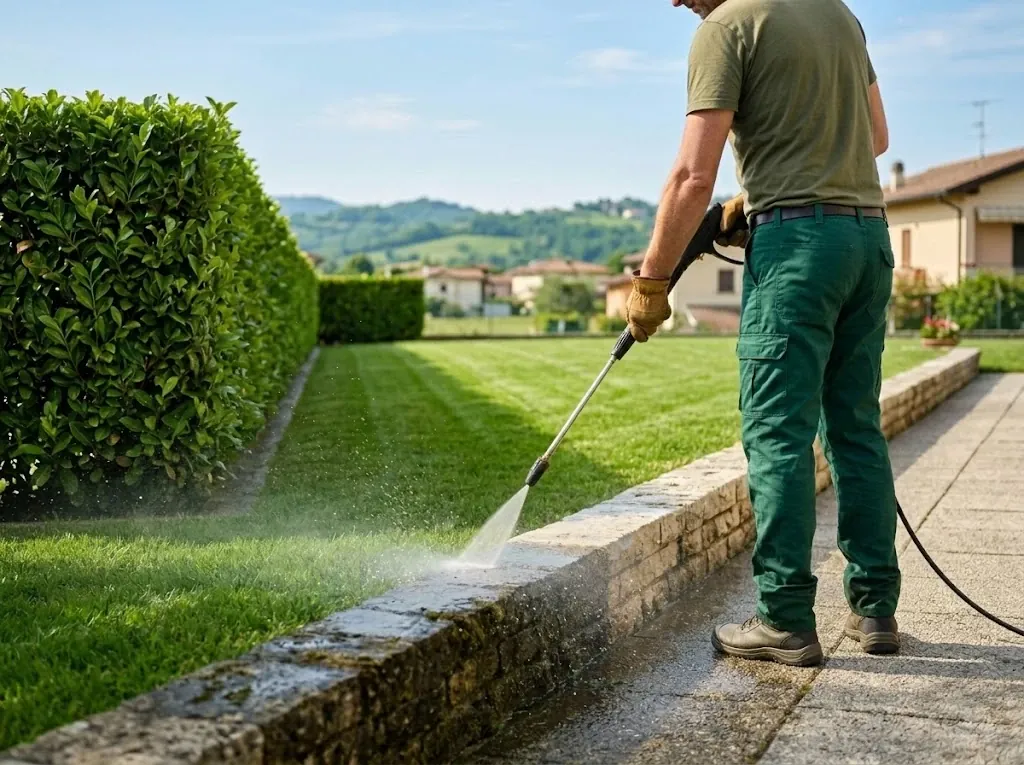
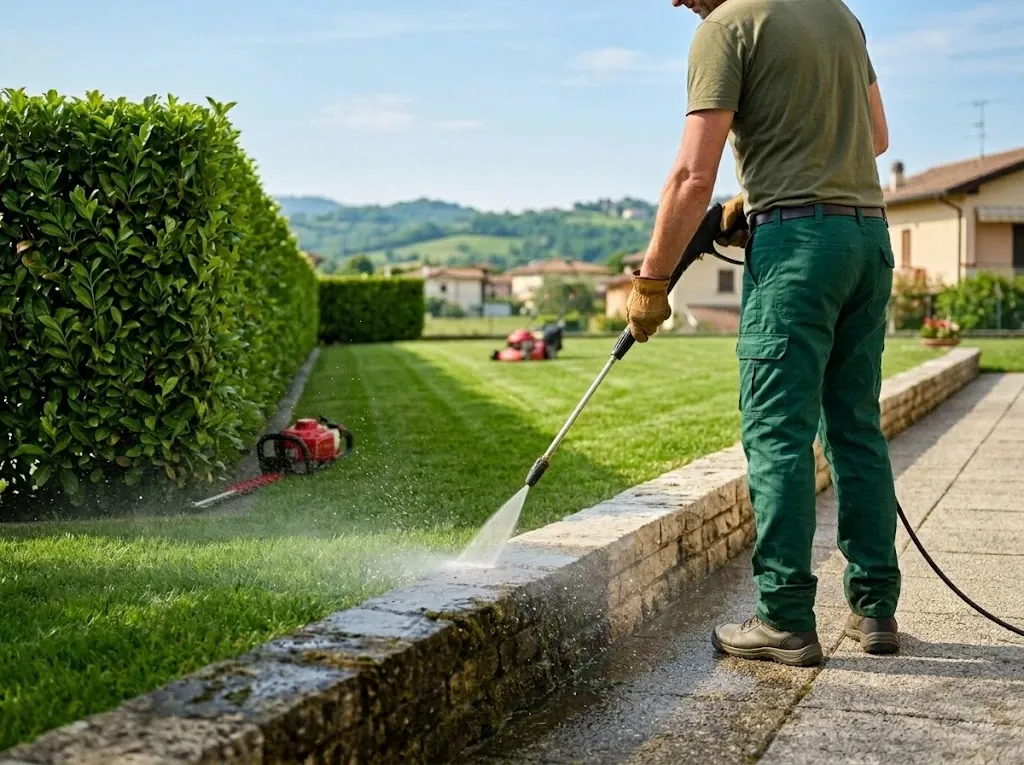
Nuova foto della prima schermata con tagliasiepi e tosaerba
Claude-Session: https://claude.ai/code/session_01NH9MncGktjPfkuU3HgGTQg

Changed region(s): [[0.1875, 0.5412, 0.3438, 0.6614], [0.4688, 0.3608, 0.5625, 0.481]]

diff --git a/index.html b/index.html
@@ -17,7 +17,7 @@
   <meta property="og:title" content="Il Giardino di Mattia | Giardiniere a Vicenza e provincia">
   <meta property="og:description" content="Potatura siepi, taglio erba e lavaggio con idropulitrice a Vicenza e provincia. Preventivo gratuito.">
   <meta property="og:url" content="https://mattiabaldinazzo.github.io/ilgiardinodimattia/">
-  <meta property="og:image" content="https://mattiabaldinazzo.github.io/ilgiardinodimattia/assets/og-image.jpg">
+  <meta property="og:image" content="https://mattiabaldinazzo.github.io/ilgiardinodimattia/assets/og-image.jpg?v=5">
   <meta property="og:image:width" content="1200">
   <meta property="og:image:height" content="630">
   <meta name="twitter:card" content="summary_large_image">
@@ -29,8 +29,8 @@
   <link rel="preconnect" href="https://fonts.googleapis.com">
   <link rel="preconnect" href="https://fonts.gstatic.com" crossorigin>
   <link rel="stylesheet" href="https://fonts.googleapis.com/css2?family=Fraunces:opsz,wght@9..144,600;9..144,700&family=Inter:wght@400;500;600;700;800&display=swap">
-  <link rel="preload" as="image" type="image/webp" imagesrcset="assets/hero-640.webp 640w, assets/hero-1024.webp 1024w" imagesizes="(max-width: 960px) 100vw, 560px">
-  <link rel="stylesheet" href="styles.css?v=4">
+  <link rel="preload" as="image" type="image/webp" imagesrcset="assets/hero-640.webp?v=5 640w, assets/hero-1024.webp?v=5 1024w" imagesizes="(max-width: 960px) 100vw, 560px">
+  <link rel="stylesheet" href="styles.css?v=5">
 
   <script type="application/ld+json">
   {
@@ -42,7 +42,7 @@
         "name": "Il Giardino di Mattia",
         "description": "Servizi di giardinaggio a Vicenza e provincia: potatura siepi, taglio erba di giardini e prati, lavaggio con idropulitrice di marciapiedi e muretti.",
         "url": "https://mattiabaldinazzo.github.io/ilgiardinodimattia/",
-        "image": "https://mattiabaldinazzo.github.io/ilgiardinodimattia/assets/og-image.jpg",
+        "image": "https://mattiabaldinazzo.github.io/ilgiardinodimattia/assets/og-image.jpg?v=5",
         "logo": "https://mattiabaldinazzo.github.io/ilgiardinodimattia/assets/apple-touch-icon.png",
         "telephone": "+390000000000",
         "email": "ilgiardinodimattia@gmail.com",
@@ -184,8 +184,8 @@
         </div>
         <div class="hero-art">
           <picture>
-            <source type="image/webp" srcset="assets/hero-640.webp 640w, assets/hero-1024.webp 1024w" sizes="(max-width: 960px) 100vw, 560px">
-            <img class="hero-img" src="assets/hero-1024.jpg" width="1024" height="765" fetchpriority="high" decoding="async" alt="Giardiniere al lavoro a Vicenza: lavaggio con idropulitrice di un muretto in pietra accanto a un prato appena tagliato e a una siepe potata">
+            <source type="image/webp" srcset="assets/hero-640.webp?v=5 640w, assets/hero-1024.webp?v=5 1024w" sizes="(max-width: 960px) 100vw, 560px">
+            <img class="hero-img" src="assets/hero-1024.jpg?v=5" width="1024" height="765" fetchpriority="high" decoding="async" alt="Giardiniere al lavoro a Vicenza: lavaggio con idropulitrice di un muretto in pietra accanto a un prato appena tagliato e a una siepe potata">
           </picture>
           <div class="hero-badge">
             <strong>Vicenza</strong>
